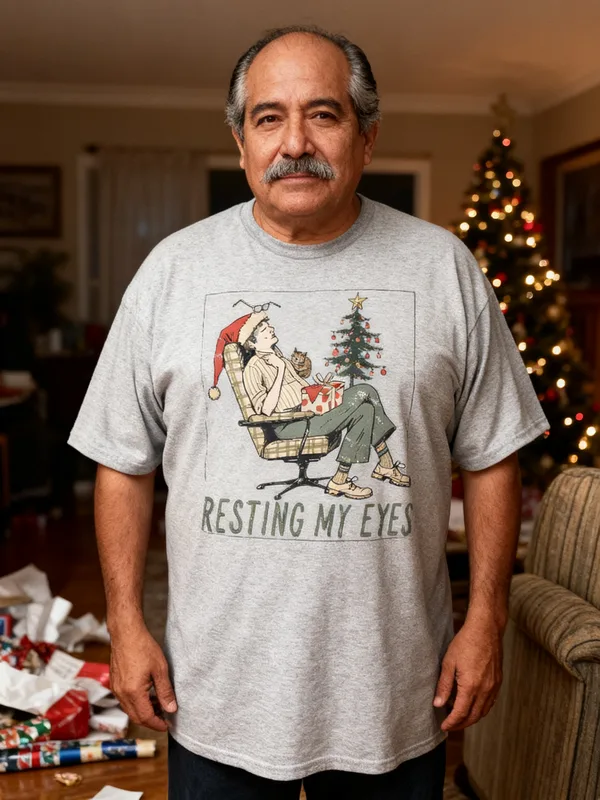
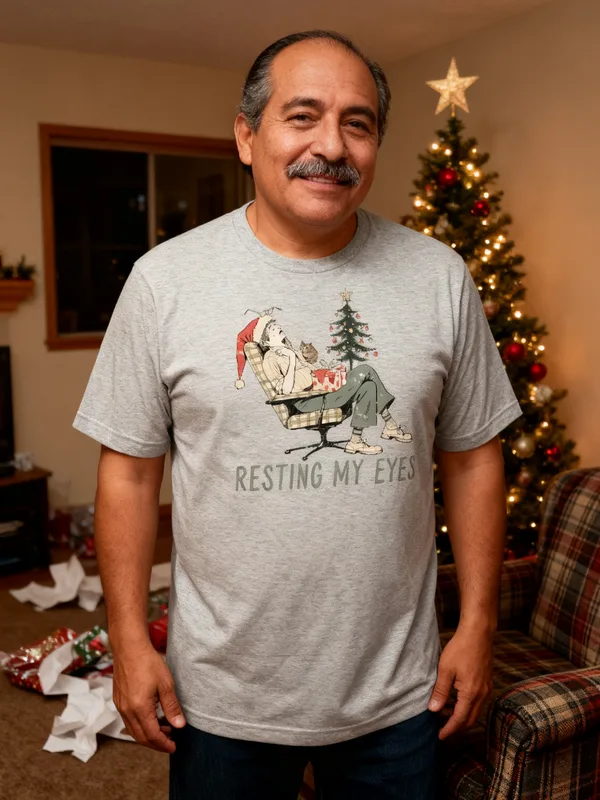
[A] review 239 Resting My Eyes tee (redo cover)

diff --git a/docs/pipeline/239-christmas-resting-my-eyes.md b/docs/pipeline/239-christmas-resting-my-eyes.md
@@ -1,4 +1,4 @@
-status: REDO
+status: REVIEW
 lane: A
 type: new
 id: 239
@@ -24,3 +24,4 @@ handle: mens-christmas-resting-my-eyes-graphic-tee
 - 2026-10-17 00:40 UTC builder [A]: Printful sync complete; REVIEW.
 - 2026-10-17 01:15 UTC director: REDO.
   1. R6.8: the cover shows a thin rectangular box outline around the print on his shirt (the flatten mismatch you logged). That reads as a frame (R4.1) and isn't the real print. Use your R6.9 extra cover attempt with the #240 method: --design = this product's own Printful front mockup in the cover color (Athletic Heather or White), hands at his sides, nothing over the print, every word of RESTING MY EYES checked. Art, file and copy pass; keep them.
+- 2026-10-17 UTC builder [A] REDO 239: new cover only (art, file, copy kept): --design = the product's own Athletic Heather front mockup, 1 attempt, man (reg 413 person per brief), hands at sides, no box outline, RESTING MY EYES read correctly on the shirt. alt text unchanged. fal ~$0.04. REVIEW.

diff --git a/docs/intake-log.md b/docs/intake-log.md
@@ -1,4 +1,5 @@
 2026-10-17 19:57 UTC — [E] REVIEW #359 Alien Visiting Not Impressed oversized hoodie (DRAFT gid 15363169386800, synced 12/12, fal cover 2 images).
+2026-10-17 20:02 UTC — [A] REVIEW #239 Resting My Eyes tee (REDO: new cover, no box outline).
 RUNNING lane C since 2026-10-17 19:50 UTC
 2026-10-17 19:56 UTC — [A] REVIEW #217 Ho Ho Howdy hoodie (REDO fixed: frameless new art, cream fur ink, worn Rye lettering, new cover; cover note: braid just touches the first H, Santa's face soft).
 2026-10-17 19:52 UTC — [E] REVIEW #409 Truck Stop Connoisseur heavyweight hoodie (DRAFT gid 15363531964720, synced 12/12, fal cover 2 images).
